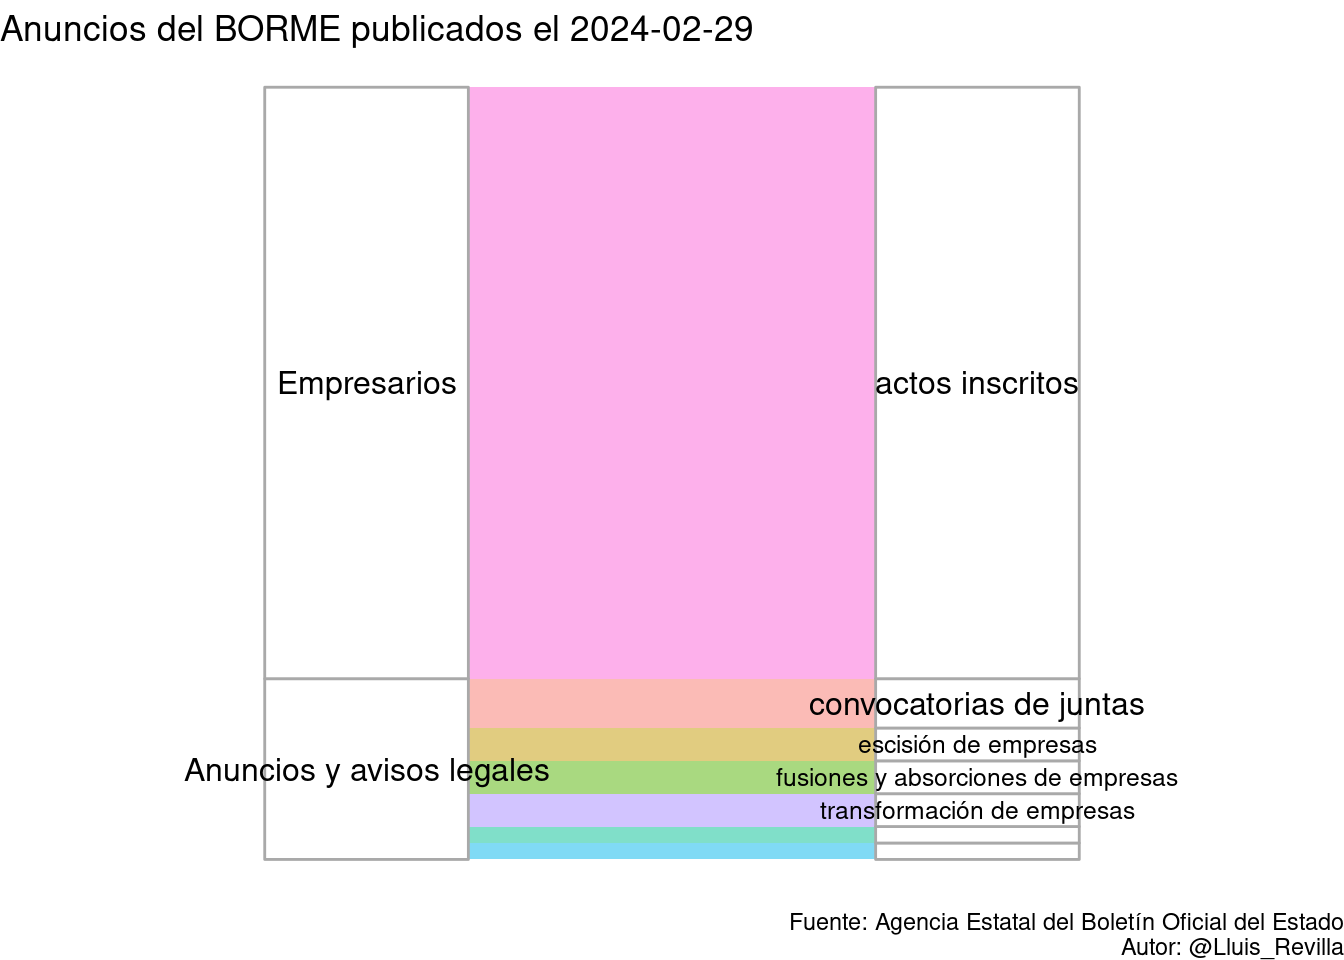
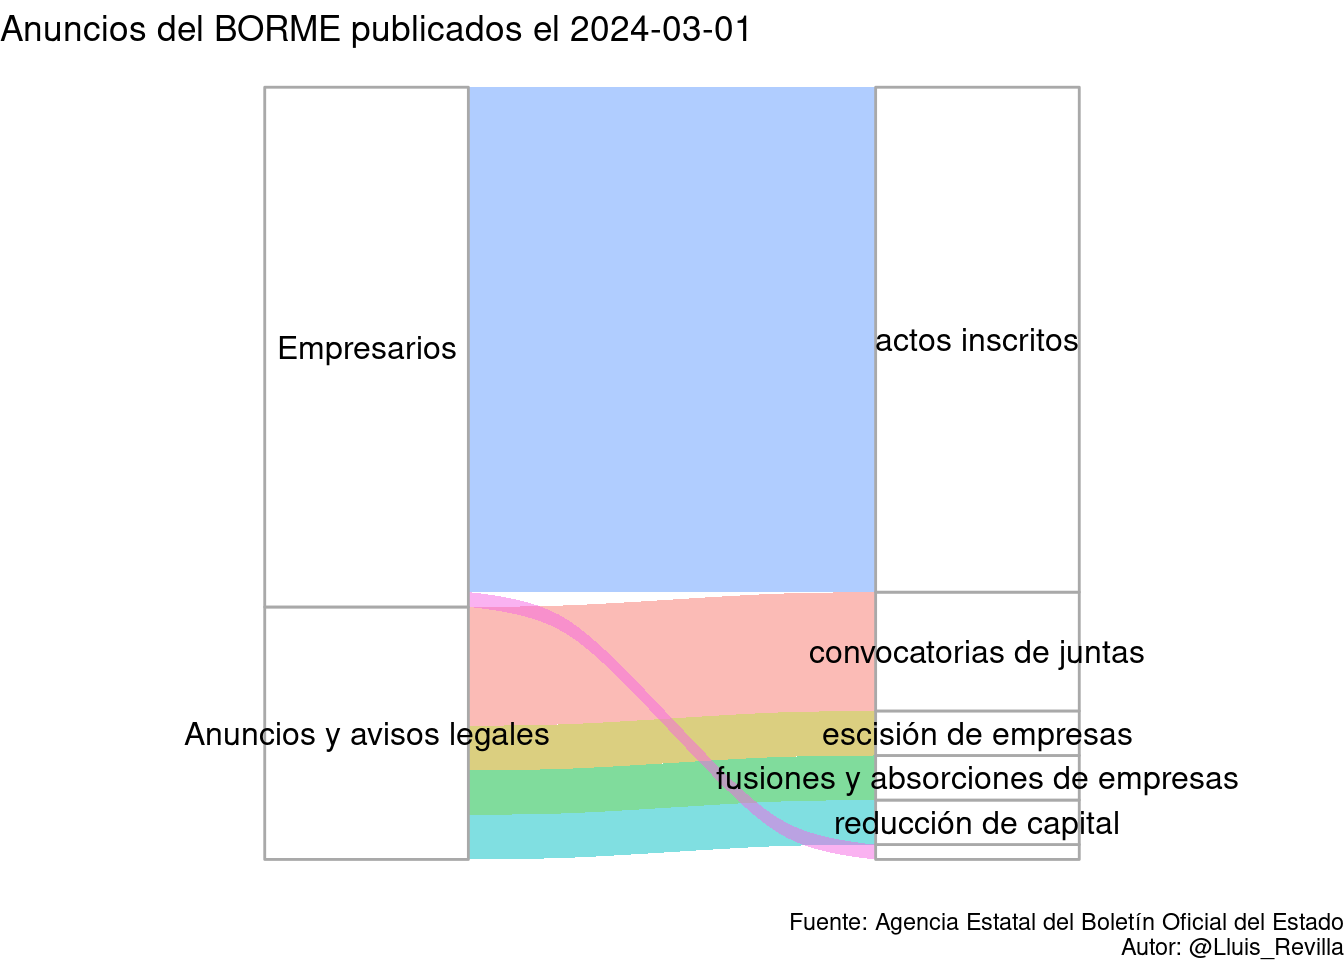
Update BORME

Changed region(s): [[0.125, 0.0938, 0.9062, 0.9062], [0.5312, 0.0, 0.5625, 0.0625]]

diff --git a/docs/last_BORME.html b/docs/last_BORME.html
@@ -379,14 +379,14 @@ $(document).ready(function () {
 
 <div id="resumen-gráfico" class="section level1">
 <h1>Resumen gráfico</h1>
-<p>Esta página web contiene el último sumario del BORME publicado el 2024-02-29 con 47 publicaciones.</p>
+<p>Esta página web contiene el último sumario del BORME publicado el 2024-03-01 con 52 publicaciones.</p>
 <p><img src="last_BORME_files/figure-html/graphics-1.png" width="672" /></p>
 </div>
 <div id="tabla-de-publicaciones" class="section level1">
 <h1>Tabla de publicaciones</h1>
 <p>Aquí está la tabla completa con enlaces a las publicaciones:</p>
-<div class="datatables html-widget html-fill-item-overflow-hidden html-fill-item" id="htmlwidget-6423dabf2d69dfdbe3e7" style="width:100%;height:auto;"></div>
-<script type="application/json" data-for="htmlwidget-6423dabf2d69dfdbe3e7">{"x":{"filter":"top","vertical":false,"filterHTML":"<tr>\n  <td><\/td>\n  <td data-type=\"character\" style=\"vertical-align: top;\">\n    <div class=\"form-group has-feedback\" style=\"margin-bottom: auto;\">\n      <input type=\"search\" placeholder=\"All\" class=\"form-control\" style=\"width: 100%;\"/>\n      <span class=\"glyphicon glyphicon-remove-circle form-control-feedback\"><\/span>\n    <\/div>\n  <\/td>\n  <td data-type=\"character\" style=\"vertical-align: top;\">\n    <div class=\"form-group has-feedback\" style=\"margin-bottom: auto;\">\n      <input type=\"search\" placeholder=\"All\" class=\"form-control\" style=\"width: 100%;\"/>\n      <span class=\"glyphicon glyphicon-remove-circle form-control-feedback\"><\/span>\n    <\/div>\n  <\/td>\n  <td data-type=\"character\" style=\"vertical-align: top;\">\n    <div class=\"form-group has-feedback\" style=\"margin-bottom: auto;\">\n      <input type=\"search\" placeholder=\"All\" class=\"form-control\" style=\"width: 100%;\" disabled=\"\"/>\n      <span class=\"glyphicon glyphicon-remove-circle form-control-feedback\"><\/span>\n    <\/div>\n  <\/td>\n  <td data-type=\"character\" style=\"vertical-align: top;\">\n    <div class=\"form-group has-feedback\" style=\"margin-bottom: auto;\">\n      <input type=\"search\" placeholder=\"All\" class=\"form-control\" style=\"width: 100%;\"/>\n      <span class=\"glyphicon glyphicon-remove-circle form-control-feedback\"><\/span>\n    <\/div>\n  <\/td>\n<\/tr>","data":[["1","2","3","4","5","6","7","8","9","10","11","12","13","14","15","16","17","18","19","20","21","22","23","24","25","26","27","28","29","30","31","32","33","34","35","36","37","38","39","40","41","42","43","44","45","46","47"],["SECCIÓN PRIMERA. Empresarios","SECCIÓN PRIMERA. Empresarios","SECCIÓN PRIMERA. Empresarios","SECCIÓN PRIMERA. Empresarios","SECCIÓN PRIMERA. Empresarios","SECCIÓN PRIMERA. Empresarios","SECCIÓN PRIMERA. Empresarios","SECCIÓN PRIMERA. Empresarios","SECCIÓN PRIMERA. Empresarios","SECCIÓN PRIMERA. Empresarios","SECCIÓN PRIMERA. Empresarios","SECCIÓN PRIMERA. Empresarios","SECCIÓN PRIMERA. Empresarios","SECCIÓN PRIMERA. Empresarios","SECCIÓN PRIMERA. Empresarios","SECCIÓN PRIMERA. Empresarios","SECCIÓN PRIMERA. Empresarios","SECCIÓN PRIMERA. Empresarios","SECCIÓN PRIMERA. Empresarios","SECCIÓN PRIMERA. Empresarios","SECCIÓN PRIMERA. Empresarios","SECCIÓN PRIMERA. Empresarios","SECCIÓN PRIMERA. Empresarios","SECCIÓN PRIMERA. Empresarios","SECCIÓN PRIMERA. Empresarios","SECCIÓN PRIMERA. Empresarios","SECCIÓN PRIMERA. Empresarios","SECCIÓN PRIMERA. Empresarios","SECCIÓN PRIMERA. Empresarios","SECCIÓN PRIMERA. Empresarios","SECCIÓN PRIMERA. Empresarios","SECCIÓN PRIMERA. Empresarios","SECCIÓN PRIMERA. Empresarios","SECCIÓN PRIMERA. Empresarios","SECCIÓN PRIMERA. Empresarios","SECCIÓN PRIMERA. Empresarios","SECCIÓN SEGUNDA. Anuncios y avisos legales","SECCIÓN SEGUNDA. Anuncios y avisos legales","SECCIÓN SEGUNDA. Anuncios y avisos legales","SECCIÓN SEGUNDA. Anuncios y avisos legales","SECCIÓN SEGUNDA. Anuncios y avisos legales","SECCIÓN SEGUNDA. Anuncios y avisos legales","SECCIÓN SEGUNDA. Anuncios y avisos legales","SECCIÓN SEGUNDA. Anuncios y avisos legales","SECCIÓN SEGUNDA. Anuncios y avisos legales","SECCIÓN SEGUNDA. Anuncios y avisos legales","SECCIÓN SEGUNDA. Anuncios y avisos legales"],["Actos inscritos","Actos inscritos","Actos inscritos","Actos inscritos","Actos inscritos","Actos inscritos","Actos inscritos","Actos inscritos","Actos inscritos","Actos inscritos","Actos inscritos","Actos inscritos","Actos inscritos","Actos inscritos","Actos inscritos","Actos inscritos","Actos inscritos","Actos inscritos","Actos inscritos","Actos inscritos","Actos inscritos","Actos inscritos","Actos inscritos","Actos inscritos","Actos inscritos","Actos inscritos","Actos inscritos","Actos inscritos","Actos inscritos","Actos inscritos","Actos inscritos","Actos inscritos","Actos inscritos","Actos inscritos","Actos inscritos","Actos inscritos","CONVOCATORIAS DE JUNTAS","CONVOCATORIAS DE JUNTAS","CONVOCATORIAS DE JUNTAS","FUSIONES Y ABSORCIONES DE EMPRESAS","FUSIONES Y ABSORCIONES DE EMPRESAS","ESCISIÓN DE EMPRESAS","ESCISIÓN DE EMPRESAS","TRANSFORMACIÓN DE EMPRESAS","TRANSFORMACIÓN DE EMPRESAS","REDUCCIÓN DE CAPITAL","OTROS ANUNCIOS Y AVISOS LEGALES"],[null,null,null,null,null,null,null,null,null,null,null,null,null,null,null,null,null,null,null,null,null,null,null,null,null,null,null,null,null,null,null,null,null,null,null,null,null,null,null,null,null,null,null,null,null,null,null],["BORME-A-2024-43-02","BORME-A-2024-43-03","BORME-A-2024-43-04","BORME-A-2024-43-06","BORME-A-2024-43-07","BORME-A-2024-43-08","BORME-A-2024-43-09","BORME-A-2024-43-10","BORME-A-2024-43-11","BORME-A-2024-43-12","BORME-A-2024-43-13","BORME-A-2024-43-14","BORME-A-2024-43-15","BORME-A-2024-43-16","BORME-A-2024-43-17","BORME-A-2024-43-18","BORME-A-2024-43-23","BORME-A-2024-43-24","BORME-A-2024-43-26","BORME-A-2024-43-28","BORME-A-2024-43-29","BORME-A-2024-43-30","BORME-A-2024-43-31","BORME-A-2024-43-32","BORME-A-2024-43-35","BORME-A-2024-43-36","BORME-A-2024-43-39","BORME-A-2024-43-40","BORME-A-2024-43-43","BORME-A-2024-43-45","BORME-A-2024-43-47","BORME-A-2024-43-48","BORME-A-2024-43-49","BORME-A-2024-43-50","BORME-A-2024-43-51","BORME-A-2024-43-99","BORME-C-2024-659","BORME-C-2024-660","BORME-C-2024-661","BORME-C-2024-662","BORME-C-2024-663","BORME-C-2024-664","BORME-C-2024-665","BORME-C-2024-666","BORME-C-2024-667","BORME-C-2024-668","BORME-C-2024-669"]],"container":"<table class=\"display\">\n  <thead>\n    <tr>\n      <th> <\/th>\n      <th>Sección<\/th>\n      <th>Emisor<\/th>\n      <th>Texto<\/th>\n      <th>Link<\/th>\n    <\/tr>\n  <\/thead>\n<\/table>","options":{"pageLength":10,"autoWidth":true,"columnDefs":[{"orderable":false,"targets":0},{"name":" ","targets":0},{"name":"Sección","targets":1},{"name":"Emisor","targets":2},{"name":"Texto","targets":3},{"name":"Link","targets":4}],"order":[],"orderClasses":false,"orderCellsTop":true}},"evals":[],"jsHooks":[]}</script>
+<div class="datatables html-widget html-fill-item-overflow-hidden html-fill-item" id="htmlwidget-382ba3e9956057b1f582" style="width:100%;height:auto;"></div>
+<script type="application/json" data-for="htmlwidget-382ba3e9956057b1f582">{"x":{"filter":"top","vertical":false,"filterHTML":"<tr>\n  <td><\/td>\n  <td data-type=\"character\" style=\"vertical-align: top;\">\n    <div class=\"form-group has-feedback\" style=\"margin-bottom: auto;\">\n      <input type=\"search\" placeholder=\"All\" class=\"form-control\" style=\"width: 100%;\"/>\n      <span class=\"glyphicon glyphicon-remove-circle form-control-feedback\"><\/span>\n    <\/div>\n  <\/td>\n  <td data-type=\"character\" style=\"vertical-align: top;\">\n    <div class=\"form-group has-feedback\" style=\"margin-bottom: auto;\">\n      <input type=\"search\" placeholder=\"All\" class=\"form-control\" style=\"width: 100%;\"/>\n      <span class=\"glyphicon glyphicon-remove-circle form-control-feedback\"><\/span>\n    <\/div>\n  <\/td>\n  <td data-type=\"character\" style=\"vertical-align: top;\">\n    <div class=\"form-group has-feedback\" style=\"margin-bottom: auto;\">\n      <input type=\"search\" placeholder=\"All\" class=\"form-control\" style=\"width: 100%;\" disabled=\"\"/>\n      <span class=\"glyphicon glyphicon-remove-circle form-control-feedback\"><\/span>\n    <\/div>\n  <\/td>\n  <td data-type=\"character\" style=\"vertical-align: top;\">\n    <div class=\"form-group has-feedback\" style=\"margin-bottom: auto;\">\n      <input type=\"search\" placeholder=\"All\" class=\"form-control\" style=\"width: 100%;\"/>\n      <span class=\"glyphicon glyphicon-remove-circle form-control-feedback\"><\/span>\n    <\/div>\n  <\/td>\n<\/tr>","data":[["1","2","3","4","5","6","7","8","9","10","11","12","13","14","15","16","17","18","19","20","21","22","23","24","25","26","27","28","29","30","31","32","33","34","35","36","37","38","39","40","41","42","43","44","45","46","47","48","49","50","51","52"],["SECCIÓN PRIMERA. Empresarios","SECCIÓN PRIMERA. Empresarios","SECCIÓN PRIMERA. Empresarios","SECCIÓN PRIMERA. Empresarios","SECCIÓN PRIMERA. Empresarios","SECCIÓN PRIMERA. Empresarios","SECCIÓN PRIMERA. Empresarios","SECCIÓN PRIMERA. Empresarios","SECCIÓN PRIMERA. Empresarios","SECCIÓN PRIMERA. Empresarios","SECCIÓN PRIMERA. Empresarios","SECCIÓN PRIMERA. Empresarios","SECCIÓN PRIMERA. Empresarios","SECCIÓN PRIMERA. Empresarios","SECCIÓN PRIMERA. Empresarios","SECCIÓN PRIMERA. Empresarios","SECCIÓN PRIMERA. Empresarios","SECCIÓN PRIMERA. Empresarios","SECCIÓN PRIMERA. Empresarios","SECCIÓN PRIMERA. Empresarios","SECCIÓN PRIMERA. Empresarios","SECCIÓN PRIMERA. Empresarios","SECCIÓN PRIMERA. Empresarios","SECCIÓN PRIMERA. Empresarios","SECCIÓN PRIMERA. Empresarios","SECCIÓN PRIMERA. Empresarios","SECCIÓN PRIMERA. Empresarios","SECCIÓN PRIMERA. Empresarios","SECCIÓN PRIMERA. Empresarios","SECCIÓN PRIMERA. Empresarios","SECCIÓN PRIMERA. Empresarios","SECCIÓN PRIMERA. Empresarios","SECCIÓN PRIMERA. Empresarios","SECCIÓN PRIMERA. Empresarios","SECCIÓN PRIMERA. Empresarios","SECCIÓN SEGUNDA. Anuncios y avisos legales","SECCIÓN SEGUNDA. Anuncios y avisos legales","SECCIÓN SEGUNDA. Anuncios y avisos legales","SECCIÓN SEGUNDA. Anuncios y avisos legales","SECCIÓN SEGUNDA. Anuncios y avisos legales","SECCIÓN SEGUNDA. Anuncios y avisos legales","SECCIÓN SEGUNDA. Anuncios y avisos legales","SECCIÓN SEGUNDA. Anuncios y avisos legales","SECCIÓN SEGUNDA. Anuncios y avisos legales","SECCIÓN SEGUNDA. Anuncios y avisos legales","SECCIÓN SEGUNDA. Anuncios y avisos legales","SECCIÓN SEGUNDA. Anuncios y avisos legales","SECCIÓN SEGUNDA. Anuncios y avisos legales","SECCIÓN SEGUNDA. Anuncios y avisos legales","SECCIÓN SEGUNDA. Anuncios y avisos legales","SECCIÓN SEGUNDA. Anuncios y avisos legales","SECCIÓN SEGUNDA. Anuncios y avisos legales"],["Actos inscritos","Actos inscritos","Actos inscritos","Actos inscritos","Actos inscritos","Actos inscritos","Actos inscritos","Actos inscritos","Actos inscritos","Actos inscritos","Actos inscritos","Actos inscritos","Actos inscritos","Actos inscritos","Actos inscritos","Actos inscritos","Actos inscritos","Actos inscritos","Actos inscritos","Actos inscritos","Actos inscritos","Actos inscritos","Actos inscritos","Actos inscritos","Actos inscritos","Actos inscritos","Actos inscritos","Actos inscritos","Actos inscritos","Actos inscritos","Actos inscritos","Actos inscritos","Actos inscritos","Actos inscritos","Otros actos publicados en el Registro Mercantil","CONVOCATORIAS DE JUNTAS","CONVOCATORIAS DE JUNTAS","CONVOCATORIAS DE JUNTAS","CONVOCATORIAS DE JUNTAS","CONVOCATORIAS DE JUNTAS","CONVOCATORIAS DE JUNTAS","CONVOCATORIAS DE JUNTAS","CONVOCATORIAS DE JUNTAS","FUSIONES Y ABSORCIONES DE EMPRESAS","FUSIONES Y ABSORCIONES DE EMPRESAS","FUSIONES Y ABSORCIONES DE EMPRESAS","ESCISIÓN DE EMPRESAS","ESCISIÓN DE EMPRESAS","ESCISIÓN DE EMPRESAS","REDUCCIÓN DE CAPITAL","REDUCCIÓN DE CAPITAL","REDUCCIÓN DE CAPITAL"],[null,null,null,null,null,null,null,null,null,null,null,null,null,null,null,null,null,null,null,null,null,null,null,null,null,null,null,null,null,null,null,null,null,null,null,null,null,null,null,null,null,null,null,null,null,null,null,null,null,null,null,null],["BORME-A-2024-44-03","BORME-A-2024-44-04","BORME-A-2024-44-06","BORME-A-2024-44-07","BORME-A-2024-44-08","BORME-A-2024-44-09","BORME-A-2024-44-11","BORME-A-2024-44-12","BORME-A-2024-44-13","BORME-A-2024-44-14","BORME-A-2024-44-15","BORME-A-2024-44-18","BORME-A-2024-44-19","BORME-A-2024-44-20","BORME-A-2024-44-23","BORME-A-2024-44-24","BORME-A-2024-44-25","BORME-A-2024-44-28","BORME-A-2024-44-29","BORME-A-2024-44-30","BORME-A-2024-44-33","BORME-A-2024-44-35","BORME-A-2024-44-36","BORME-A-2024-44-37","BORME-A-2024-44-38","BORME-A-2024-44-40","BORME-A-2024-44-41","BORME-A-2024-44-42","BORME-A-2024-44-43","BORME-A-2024-44-46","BORME-A-2024-44-47","BORME-A-2024-44-49","BORME-A-2024-44-50","BORME-A-2024-44-99","BORME-B-2024-44-38","BORME-C-2024-670","BORME-C-2024-671","BORME-C-2024-672","BORME-C-2024-673","BORME-C-2024-674","BORME-C-2024-675","BORME-C-2024-676","BORME-C-2024-677","BORME-C-2024-678","BORME-C-2024-679","BORME-C-2024-680","BORME-C-2024-681","BORME-C-2024-682","BORME-C-2024-683","BORME-C-2024-684","BORME-C-2024-685","BORME-C-2024-686"]],"container":"<table class=\"display\">\n  <thead>\n    <tr>\n      <th> <\/th>\n      <th>Sección<\/th>\n      <th>Emisor<\/th>\n      <th>Texto<\/th>\n      <th>Link<\/th>\n    <\/tr>\n  <\/thead>\n<\/table>","options":{"pageLength":10,"autoWidth":true,"columnDefs":[{"orderable":false,"targets":0},{"name":" ","targets":0},{"name":"Sección","targets":1},{"name":"Emisor","targets":2},{"name":"Texto","targets":3},{"name":"Link","targets":4}],"order":[],"orderClasses":false,"orderCellsTop":true}},"evals":[],"jsHooks":[]}</script>
 </div>
 
 
